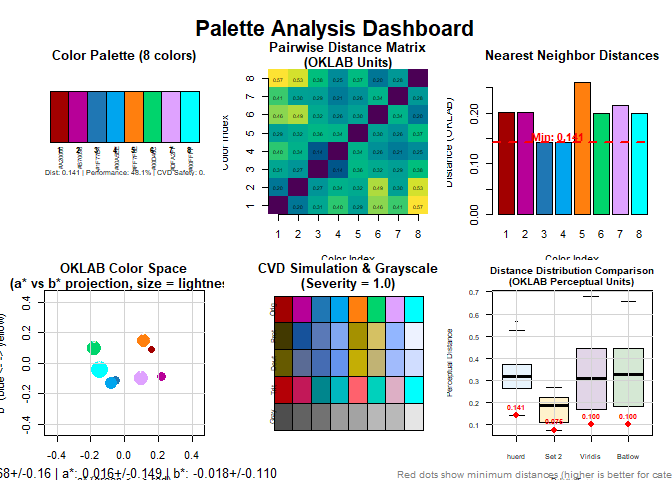
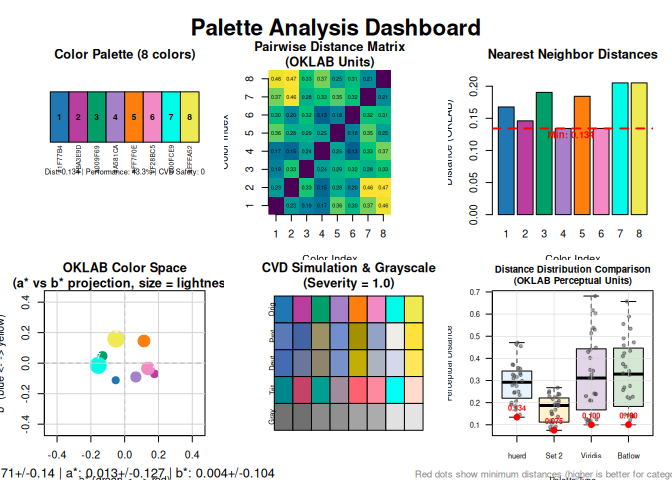
docs: update README with v0.2.0 improvements
- Rebuild README with enhanced dashboard visualizations
- Updated example outputs reflect improved MAX_MIN_DIST_ESTIMATES
- Dashboard images show professional v0.2.0 enhancements

diff --git a/README.md b/README.md
@@ -15,13 +15,12 @@ coverage](https://codecov.io/gh/sims1253/huerd/graph/badge.svg)](https://app.cod
 experimental](https://img.shields.io/badge/lifecycle-experimental-orange.svg)](https://lifecycle.r-lib.org/articles/stages.html#experimental)
 <!-- badges: end -->
 
-A discrete color palette generator with support for fixed colors
-optimized for both normal and color vision deficient viewers.
+A discrete color palette generator with support for fixed colors,
+optimized for color vision deficient viewers.
 
 ## Installation
 
-You can install the development version of huerd from
-[GitHub](https://github.com/) with:
+You can install the development version of huerd from GitHub with:
 
 ``` r
 # install.packages("pak")
@@ -40,22 +39,22 @@ print(palette)
 #> 
 #> -- huerd Color Palette (8 colors) --
 #> Colors:
-#> [ 1] #002300
-#> [ 2] #420200
-#> [ 3] #340083
-#> [ 4] #764C4F
-#> [ 5] #005FFF
-#> [ 6] #FF5000
-#> [ 7] #FF00FF
-#> [ 8] #00E100
+#> [ 1] #170600
+#> [ 2] #640097
+#> [ 3] #9A0038
+#> [ 4] #0044FF
+#> [ 5] #FF0000
+#> [ 6] #00ABFF
+#> [ 7] #00FFEB
+#> [ 8] #EFFF00
 #> 
 #> -- Quality Metrics Summary --
-#> * Min. Perceptual Distance (OKLAB): 0.143
-#> * Optimizer Performance Ratio      : 48.9%
-#> * Min. CVD-Safe Distance (OKLAB)  : 0.017
+#> * Min. Perceptual Distance (OKLAB): 0.206
+#> * Optimizer Performance Ratio      : 66.5%
+#> * Min. CVD-Safe Distance (OKLAB)  : 0.169
 #> 
 #> -- Generation Details --
-#> * Optimizer Iterations: 717
+#> * Optimizer Iterations: 677
 #> * Optimizer Status: NLOPT_XTOL_REACHED: Optimization stopped because xtol_rel or xtol_abs (above) was reached.
 ```
 
@@ -74,22 +73,22 @@ print(palette)
 #> 
 #> -- huerd Color Palette (8 colors) --
 #> Colors:
-#> [ 1] #001700
-#> [ 2] #6D0020
-#> [ 3] #3A00A8
-#> [ 4] #4A6B8A
-#> [ 5] #005CFF
-#> [ 6] #CA5B00
-#> [ 7] #E5A04C
-#> [ 8] #83BEFF
+#> [ 1] #13345B
+#> [ 2] #9A3A34
+#> [ 3] #4A6B8A
+#> [ 4] #4E9558
+#> [ 5] #C07FA2
+#> [ 6] #E5A04C
+#> [ 7] #70CFA4
+#> [ 8] #D3BCFF
 #> 
 #> -- Quality Metrics Summary --
-#> * Min. Perceptual Distance (OKLAB): 0.168
-#> * Optimizer Performance Ratio      : 57.4%
-#> * Min. CVD-Safe Distance (OKLAB)  : 0.084
+#> * Min. Perceptual Distance (OKLAB): 0.169
+#> * Optimizer Performance Ratio      : 54.5%
+#> * Min. CVD-Safe Distance (OKLAB)  : 0.095
 #> 
 #> -- Generation Details --
-#> * Optimizer Iterations: 270
+#> * Optimizer Iterations: 392
 #> * Optimizer Status: NLOPT_XTOL_REACHED: Optimization stopped because xtol_rel or xtol_abs (above) was reached.
 ```
 
@@ -118,11 +117,11 @@ evaluation <- evaluate_palette(palette)
 
 # Access raw metrics (no subjective scoring)
 cat("Minimum distance:", evaluation$distances$min, "\n")
-#> Minimum distance: 0.08291877
+#> Minimum distance: 0.1539379
 cat("Performance ratio:", evaluation$distances$performance_ratio * 100, "%\n")
-#> Performance ratio: 28.25767 %
+#> Performance ratio: 49.67927 %
 cat("CVD worst case:", evaluation$cvd_safety$worst_case_min_distance, "\n")
-#> CVD worst case: 0.02299919
+#> CVD worst case: 0.1403357
 ```
 
 ## Custom Parameters
@@ -142,22 +141,22 @@ print(palette)
 #> 
 #> -- huerd Color Palette (8 colors) --
 #> Colors:
-#> [ 1] #5C3387
-#> [ 2] #1D6600
-#> [ 3] #EB6C00
-#> [ 4] #00B5B1
-#> [ 5] #66A8EC
-#> [ 6] #FF758D
-#> [ 7] #FF97FF
-#> [ 8] #00FFF8
+#> [ 1] #498F5D
+#> [ 2] #9965BC
+#> [ 3] #A294F7
+#> [ 4] #E39890
+#> [ 5] #00D1D9
+#> [ 6] #D1D770
+#> [ 7] #00F7FF
+#> [ 8] #FFF5BC
 #> 
 #> -- Quality Metrics Summary --
-#> * Min. Perceptual Distance (OKLAB): 0.119
-#> * Optimizer Performance Ratio      : 40.5%
-#> * Min. CVD-Safe Distance (OKLAB)  : 0.024
+#> * Min. Perceptual Distance (OKLAB): 0.106
+#> * Optimizer Performance Ratio      : 34.2%
+#> * Min. CVD-Safe Distance (OKLAB)  : 0.102
 #> 
 #> -- Generation Details --
-#> * Optimizer Iterations: 1045
+#> * Optimizer Iterations: 665
 #> * Optimizer Status: NLOPT_XTOL_REACHED: Optimization stopped because xtol_rel or xtol_abs (above) was reached.
 ```
 
@@ -170,12 +169,14 @@ library(huerd)
 brand_palette <- generate_palette(
   n = 8,
   include_colors = c("#1f77b4", "#ff7f0e"),  # Fixed brand colors
+  fixed_aesthetic_influence = 0.9,
+  initialization = "harmony",
   return_metrics = TRUE,
   progress = TRUE
 )
 #> Preparing for palette generation...
 #> Adapting initialization from fixed colors' aesthetics...
-#> Initializing 6 free colors (method: k-means++)...
+#> Initializing 6 free colors (method: harmony)...
 #> Optimizing 6 free colors...
 #> Finalizing palette...
 #> Done.
@@ -191,9 +192,9 @@ plot_palette_analysis(brand_palette)
 # 3. Quality evaluation
 evaluation <- evaluate_palette(brand_palette)
 cat("Min distance:", round(evaluation$distances$min, 3), "\n")
-#> Min distance: 0.141
+#> Min distance: 0.134
 cat("Performance:", round(evaluation$distances$performance_ratio * 100, 1), "%\n")
-#> Performance: 48.1 %
+#> Performance: 43.3 %
 
 # 4. CVD accessibility check
 cvd_safe <- is_cvd_safe(brand_palette)
@@ -210,62 +211,62 @@ print(cvd_simulation)
 #> 
 #> -- huerd CVD Simulation Result (Multiple Types, Severity: 1.00) --
 #> Palette for: original
-#>   [ 1] #A20000
-#>   [ 2] #B70098
-#>   [ 3] #1F77B4
-#>   [ 4] #00A5EE
+#>   [ 1] #1F77B4
+#>   [ 2] #BA3E9D
+#>   [ 3] #009F69
+#>   [ 4] #A581CA
 #>   [ 5] #FF7F0E
-#>   [ 6] #00D46C
-#>   [ 7] #DFA2FF
-#>   [ 8] #00FFFF
+#>   [ 6] #F28BC5
+#>   [ 7] #00FCE9
+#>   [ 8] #EFEA52
 #> Palette for: protan
-#>   [ 1] #423900
-#>   [ 2] #16529B
-#>   [ 3] #5A79B7
-#>   [ 4] #81A6F1
+#>   [ 1] #5A79B7
+#>   [ 2] #4364A0
+#>   [ 3] #9D9266
+#>   [ 4] #728FCD
 #>   [ 5] #A59100
-#>   [ 6] #D5C163
-#>   [ 7] #92B6FF
-#>   [ 8] #EDF2FF
+#>   [ 6] #93A2C7
+#>   [ 7] #EEEDE8
+#>   [ 8] #FDE13C
 #> Palette for: deutan
-#>   [ 1] #665A00
-#>   [ 2] #5A6B95
-#>   [ 3] #456CB3
-#>   [ 4] #6593ED
+#>   [ 1] #456CB3
+#>   [ 2] #6A779A
+#>   [ 3] #8D866D
+#>   [ 4] #7991C8
 #>   [ 5] #C4AE05
-#>   [ 6] #C1B374
-#>   [ 7] #A1BBFC
-#>   [ 8] #D0DDFF
+#>   [ 6] #AEB3C2
+#>   [ 7] #D3D9EB
+#>   [ 8] #FFE75C
 #> Palette for: tritan
-#>   [ 1] #B40006
-#>   [ 2] #C21858
-#>   [ 3] #00868D
-#>   [ 4] #00B8BF
+#>   [ 1] #00868D
+#>   [ 2] #C44368
+#>   [ 3] #009E91
+#>   [ 4] #A08C9C
 #>   [ 5] #FF616D
-#>   [ 6] #00D1BC
-#>   [ 7] #DDAFC5
-#>   [ 8] #00FFFE
+#>   [ 6] #FE8AA0
+#>   [ 7] #00FFF6
+#>   [ 8] #FFDBCB
 
 # 6. Display final palette (colors are brightness-sorted)
 print(brand_palette)
 #> 
 #> -- huerd Color Palette (8 colors) --
 #> Colors:
-#> [ 1] #A20000
-#> [ 2] #B70098
-#> [ 3] #1F77B4
-#> [ 4] #00A5EE
+#> [ 1] #1F77B4
+#> [ 2] #BA3E9D
+#> [ 3] #009F69
+#> [ 4] #A581CA
 #> [ 5] #FF7F0E
-#> [ 6] #00D46C
-#> [ 7] #DFA2FF
-#> [ 8] #00FFFF
+#> [ 6] #F28BC5
+#> [ 7] #00FCE9
+#> [ 8] #EFEA52
 #> 
 #> -- Quality Metrics Summary --
-#> * Min. Perceptual Distance (OKLAB): 0.141
-#> * Optimizer Performance Ratio      : 48.1%
-#> * Min. CVD-Safe Distance (OKLAB)  : 0.050
+#> * Min. Perceptual Distance (OKLAB): 0.134
+#> * Optimizer Performance Ratio      : 43.3%
+#> * Min. CVD-Safe Distance (OKLAB)  : 0.073
 #> 
 #> -- Generation Details --
-#> * Optimizer Iterations: 993
+#> * Optimizer Iterations: 727
 #> * Optimizer Status: NLOPT_XTOL_REACHED: Optimization stopped because xtol_rel or xtol_abs (above) was reached.
 ```
